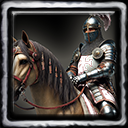
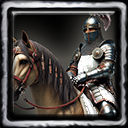
Player colour: 25 dim unit images lifted; pcfix judges the checker's area and scales deep shading
- pcfix.py repairs the same area pccheck.py judges (alpha < 128 plus its soft rim): an alpha < 250 search had joined
  the Bohemian knight's area to an image corner and left it dark. Deep stored shading (median >= 40) is now scaled to
  the vanilla level instead of stretched (the stretch turned the Janissary's coat grain into white blotches). Test.
- 25 unit icons and portraits with a dim player-colour area (luminance 60-89) lifted; AoP unit and building art has
  none below 90 now.
- aoe3de-unit-animation: mounted heroes carry no Knockout / KnockoutIdle / Recover (the engine plays the death
  animation); never alias them to Idle.

diff --git a/.claude/skills/visual-detail-check/scripts/small_size_check.py b/.claude/skills/visual-detail-check/scripts/small_size_check.py
@@ -1,0 +1,117 @@
+"""Is a picture still clear at the small sizes the player sees it (icon 128/64/48 px, a portrait in a panel)?
+Single images, judged against reference pictures the owner accepts (vanilla icons/portraits), not against a BASE.
+
+    python small_size_check.py --img cand=A.png --img current=B.png --ref shrine=V.png \
+        [--sizes 128,64,48] [--crop x0,y0,x1,y1] [--show IMG.png ...] --out DIR
+
+Every picture is cropped (optional, fractions or pixels of each source) and resized with LANCZOS to each size. The
+subject is told from the background by its colour difference (CIEDE2000 > 14) from the frame border's median colour.
+  subject  share of the picture that stands out from the background (figure-ground; a dark roof on a dark backdrop
+           drops out of it - 2026-10-09: an old mottled roof 0.28, the clean candidates 0.35)
+  mottle   median local std of L* (5 px window at 128) on the subject's flat areas: blotches, dirt, moss, tile checker
+           (lower = cleaner; global measures miss it because the background dominates)
+  shape    std of L* after a blur of size/64 px: contrast of the big forms that survive
+  edges    mean |grad L*| per pixel; speckle: share of the gradient energy in the finest band (pixel noise)
+Verdicts per size against the references: subject 'stands out more' / 'as' / 'less', mottle 'cleaner' / 'as clean' /
+'noisier' (as = within 10 % of the reference range); the report also ranks all pictures by mottle and subject.
+
+Writes DIR/SMALL_SIZE.json and DIR/small_size_sheet.png: per picture, each size at 1:1 and enlarged (nearest) to 256.
+--show adds finished pictures (e.g. the bordered icon) to the sheet without metrics. LOOK at the 64 px column.
+"""
+import argparse, json
+from pathlib import Path
+import cv2
+import numpy as np
+from PIL import Image, ImageDraw
+from skimage.color import rgb2lab, deltaE_ciede2000
+
+ap = argparse.ArgumentParser()
+ap.add_argument('--img', action='append', default=[], help='NAME=PATH candidate')
+ap.add_argument('--ref', action='append', default=[], help='NAME=PATH reference the owner accepts')
+ap.add_argument('--sizes', default='128,64,48')
+ap.add_argument('--crop', help='x0,y0,x1,y1 applied to every picture (values <= 1 are fractions)')
+ap.add_argument('--show', action='append', default=[], help='extra finished picture for the sheet only')
+ap.add_argument('--out', required=True)
+a = ap.parse_args()
+out = Path(a.out); out.mkdir(parents=True, exist_ok=True)
+sizes = [int(s) for s in a.sizes.split(',')]
+
+
+def load(p):
+    im = Image.open(p).convert('RGBA')
+    bg = Image.new('RGBA', im.size, (0, 0, 0, 255)); im = Image.alpha_composite(bg, im).convert('RGB')
+    if a.crop:
+        c = [float(v) for v in a.crop.split(',')]
+        if max(c) <= 1:
+            c = [c[0] * im.width, c[1] * im.height, c[2] * im.width, c[3] * im.height]
+        im = im.crop(tuple(int(round(v)) for v in c))
+    return im
+
+
+def metrics(im, n):
+    small = im.resize((n, n), Image.LANCZOS)
+    lab = rgb2lab(np.asarray(small, np.float32) / 255).astype(np.float32); L = lab[..., 0]
+    g = lambda x: np.hypot(cv2.Sobel(x, cv2.CV_32F, 1, 0, ksize=3), cv2.Sobel(x, cv2.CV_32F, 0, 1, ksize=3))
+    G = g(L); fine = g(L - cv2.GaussianBlur(L, (0, 0), 1.0))
+    b = max(2, n // 16); frame = np.zeros((n, n), bool); frame[:b] = frame[-b:] = True; frame[:, :b] = frame[:, -b:] = True
+    dE = deltaE_ciede2000(lab, np.broadcast_to(np.median(lab[frame], axis=0), lab.shape))
+    subj = cv2.morphologyEx((dE > 14).astype(np.uint8), cv2.MORPH_OPEN, np.ones((2, 2), np.uint8))
+    inner = cv2.erode(subj, np.ones((3, 3), np.uint8)).astype(bool)
+    w = max(3, round(5 * n / 128)) | 1
+    mu = cv2.blur(L, (w, w)); sd = np.sqrt(np.maximum(cv2.blur(L * L, (w, w)) - mu * mu, 0))
+    flat = inner & (G < np.percentile(G[inner], 60)) if inner.any() else inner
+    return small, {'subject': float(subj.mean()), 'mottle': float(np.median(sd[flat])) if flat.any() else float('nan'),
+                   'shape': float(cv2.GaussianBlur(L, (0, 0), max(.5, n / 64)).std()), 'edges': float(G.mean()),
+                   'speckle': float((fine ** 2).sum() / ((G ** 2).sum() + 1e-6))}
+
+
+rows = []; rep = {'sizes': sizes, 'crop': a.crop, 'pictures': {}}
+for kind, items in (('ref', a.ref), ('img', a.img)):
+    for it in items:
+        n_, p = it.split('=', 1); im = load(p); per = {}; smalls = []
+        for n in sizes:
+            sm, m = metrics(im, n); per[n] = {k: round(v, 3) for k, v in m.items()}; smalls.append(sm)
+        rep['pictures'][n_] = {'kind': kind, 'path': p, 'per_size': per}; rows.append((n_, kind, smalls))
+refs = [v for v in rep['pictures'].values() if v['kind'] == 'ref']
+if refs:
+    for n_, v in rep['pictures'].items():
+        if v['kind'] != 'img':
+            continue
+        v['verdict'] = {}
+        for n in sizes:
+            def judge(k, better_high, words):
+                lo = min(r['per_size'][n][k] for r in refs); hi = max(r['per_size'][n][k] for r in refs)
+                x = v['per_size'][n][k]; tol = .1 * max(abs(hi), 1e-6)
+                if lo - tol <= x <= hi + tol:
+                    return words[1]
+                return words[0] if (x > hi) == better_high else words[2]
+            v['verdict'][n] = {'subject': judge('subject', True, ('stands out more', 'stands out as much', 'stands out less')),
+                               'mottle': judge('mottle', False, ('cleaner', 'as clean', 'noisier'))}
+for n in sizes:
+    rep.setdefault('rank', {})[n] = {k: [m for m, _ in sorted(rep['pictures'].items(), key=lambda kv: kv[1]['per_size'][n][k] * (1 if k == 'mottle' else -1))]
+                                     for k in ('mottle', 'subject')}
+for p in a.show:
+    im = Image.open(p).convert('RGBA'); bg = Image.new('RGBA', im.size, (40, 40, 40, 255))
+    im = Image.alpha_composite(bg, im).convert('RGB')
+    rows.append((Path(p).stem + ' (as shown)', 'show', [im.resize((n, n), Image.LANCZOS) for n in sizes]))
+
+Z = 256; colw = [n + 8 + Z for n in sizes]; W = 10 + sum(c + 14 for c in colw); H = 20 + len(rows) * (Z + 34)
+sheet = Image.new('RGB', (W, H), (40, 40, 40)); dr = ImageDraw.Draw(sheet)
+dr.text((10, 4), 'each size at 1:1, then enlarged (nearest) to 256  |  subject = stands out from background, mottle = blotches on it (lower = cleaner)  |  LOOK at 64 px', fill=(230, 230, 230))
+for r, (n_, kind, smalls) in enumerate(rows):
+    y = 20 + r * (Z + 34); x = 10
+    v = rep['pictures'].get(n_, {})
+    dr.text((10, y + 2), f"{n_} [{kind}]", fill=(255, 220, 120) if kind == 'img' else (150, 210, 255))
+    for i, (n, sm) in enumerate(zip(sizes, smalls)):
+        sheet.paste(sm, (x, y + 18)); sheet.paste(sm.resize((Z, Z), Image.NEAREST), (x + n + 8, y + 18))
+        if v:
+            m = v['per_size'][n]; t = f"{n}: subject {m['subject']:.2f}  mottle {m['mottle']:.1f}"
+            if 'verdict' in v:
+                t += f"  ({v['verdict'][n]['mottle']})"
+            dr.text((x, y + 20 + Z), t, fill=(220, 220, 220))
+        x += colw[i] + 14
+sheet.save(out / 'small_size_sheet.png')
+(out / 'SMALL_SIZE.json').write_text(json.dumps(rep, indent=1), encoding='utf-8')
+for n_, v in rep['pictures'].items():
+    print(n_, v['kind'], {n: v['per_size'][n] for n in sizes}, v.get('verdict', ''))
+print('RANK (best first)', json.dumps(rep.get('rank', {})))

diff --git a/.claude/skills/icon-forge/scripts/pcfix.py b/.claude/skills/icon-forge/scripts/pcfix.py
@@ -20,12 +20,15 @@ from scipy.ndimage import binary_dilation
 sys.path.insert(0, os.path.dirname(os.path.abspath(__file__)))
 from pccheck import LUMA, player_area, region_luma  # noqa: E402
 
-LO, HI, FLAT = 150.0, 245.0, 205.0
+LO, HI, FLAT, TARGET = 150.0, 245.0, 205.0, 150.0
 
 
 def region(alpha):
-    inner = player_area(alpha < 250)
-    return binary_dilation(inner, iterations=1) & (alpha < 255) | inner
+    """The area pccheck.py judges (alpha < 128, no image corner, no frame strip) plus its soft rim: the partially
+    transparent pixels up to 2 px around it. Bohemian knight 2026-10-09: an alpha < 250 search joined the area to a
+    corner through soft pixels and left it dark."""
+    inner = player_area(alpha < 128)
+    return binary_dilation(inner, iterations=2) & (alpha < 255) | inner
 
 
 def fix(path):
@@ -37,7 +40,11 @@ def fix(path):
     lum = a[..., :3] @ LUMA
     vals = lum[m]
     p5, p95 = np.percentile(vals, [5, 95])
-    if p95 - p5 > 12 and p95 > 25:                        # folds still stored: keep them, lift them to light grey
+    med = float(np.median(vals))
+    if med >= 40:                                         # a deep but real shading: scale it, keep its contrast
+        grey = np.clip(lum * TARGET / med, 0, 250)        # (a stretch to 150..245 turned the Janissary's coat grain
+        how = 'shading scaled x%.2f (median %.0f -> %.0f)' % (TARGET / med, med, TARGET)   # into white blotches)
+    elif p95 - p5 > 12 and p95 > 25:                      # faint folds still stored: lift them to light grey
         grey = LO + (HI - LO) * np.clip((lum - p5) / (p95 - p5), 0, 1)
         how = 'folds kept (luminance %.0f..%.0f -> %.0f..%.0f)' % (p5, p95, LO, HI)
     else:

diff --git a/.claude/skills/icon-forge/scripts/test_player_colour.py b/.claude/skills/icon-forge/scripts/test_player_colour.py
@@ -64,3 +64,16 @@ def test_mod_unit_and_building_art_has_no_dark_player_colour():
             if r and r[0] < 60:
                 dark.append('%s %.0f' % (p.relative_to(repo).as_posix(), r[0]))
     assert not dark, dark
+
+
+def test_pcfix_reaches_an_area_whose_soft_edge_touches_a_corner(tmp_path):
+    """Bohemian knight 2026-10-09: soft (alpha 128-249) pixels joined the sash to an image corner; the repair skipped
+    it while the check still saw it dark. Both now judge the same area (alpha < 128)."""
+    p = art(tmp_path, (10, 10, 10))
+    a = np.array(Image.open(p))
+    a[0:200, 0:3, 3] = 200                         # a soft strip from the top-left corner down the left edge ...
+    a[180:200, 0:60, 3] = 200                      # ... and across to the sash
+    Image.fromarray(a).save(p)
+    res, _ = pcfix.fix(p)
+    res.save(p)
+    assert pccheck.region_luma(p)[0] >= 150

diff --git a/.claude/skills/aoe3de-unit-animation/SKILL.md b/.claude/skills/aoe3de-unit-animation/SKILL.md
@@ -13,8 +13,11 @@ are what fixed them, each with its guard.
 ## 1. Every animation the tactics name must exist and move
 
 - Collect `<anim>` names from the unit's tactics actions; a builder (`<type>Build</type>`) also needs `Build`,
-  `BuildLifting`, `BuildSaw`, `BuildStaking` (the engine picks per building); explorers need `Pickup` (treasure) and
-  their knockout set (`Knockout`, `KnockoutIdle`, `Recover`; DE has no mounted knockout: alias them, a known debt).
+  `BuildLifting`, `BuildSaw`, `BuildStaking` (the engine picks per building); explorers need `Pickup` (treasure).
+  Knockout: foot heroes carry `Knockout`, `KnockoutIdle`, `Recover`; **mounted heroes carry none of them** (Hetman,
+  Ras, Emir, Lakota war chief): the engine then plays the death animation and the hero lies on the ground until
+  revived. Never alias those names to `Idle` on a mounted hero - the knocked-out Korean monk stayed in the saddle
+  (owner's test 2026-10-09). The engine picks these three by name from the animfile; tactics never list them.
 - An alias that copies `Idle` "exists" but stands still: the monk froze while building and picking up treasure.
   Borrow a real matched pair instead - for mounted Asian heroes General Kichiro (`spc_kichiro_horse/rider`: `Pickup`,
   `Build*`, `Smokescreen`), plus the attachments those blocks attach (hammer, smoke).
